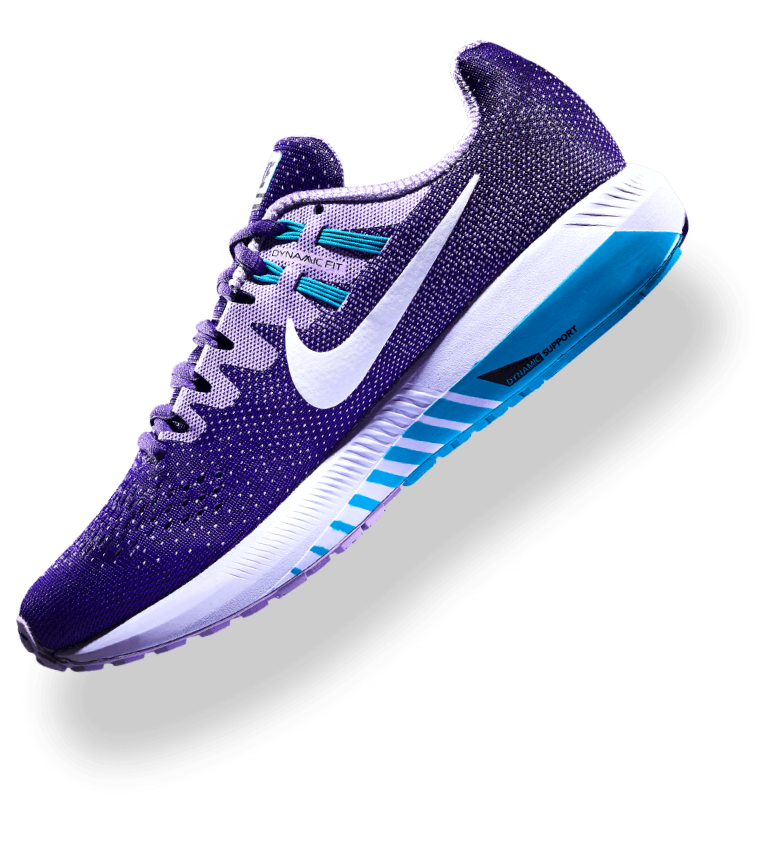
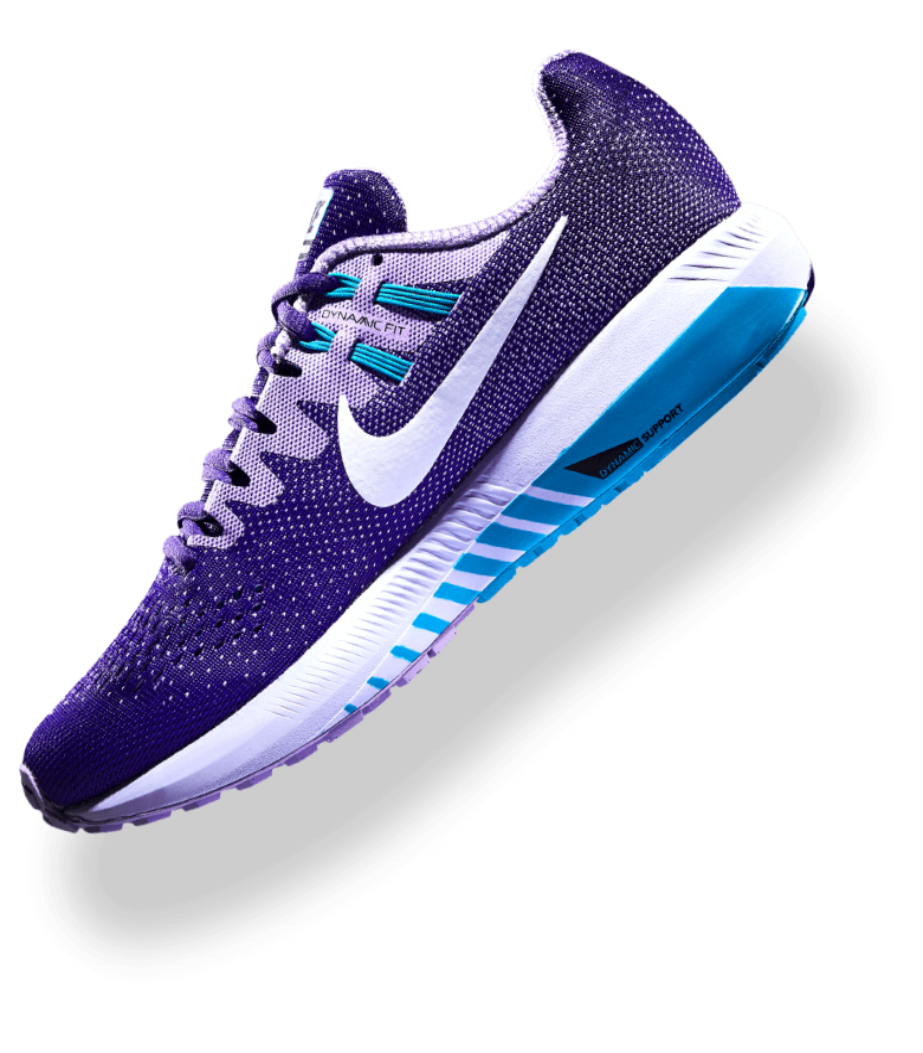
Completed Casual Shoes Section

Changed region(s): [[0.0615, 0.0612, 0.8, 0.6737], [0.4308, 0.4594, 0.4615, 0.49]]

diff --git a/index.html b/index.html
@@ -74,20 +74,6 @@
               align-items-center
             "
           >
-            <svg
-              xmlns="http://www.w3.org/2000/svg"
-              class="h-6 w-6"
-              fill="none"
-              viewBox="0 0 24 24"
-              stroke="currentColor"
-            >
-              <path
-                stroke-linecap="round"
-                stroke-linejoin="round"
-                stroke-width="2"
-                d="M3 3h2l.4 2M7 13h10l4-8H5.4M7 13L5.4 5M7 13l-2.293 2.293c-.63.63-.184 1.707.707 1.707H17m0 0a2 2 0 100 4 2 2 0 000-4zm-8 2a2 2 0 11-4 0 2 2 0 014 0z"
-              />
-            </svg>
             BUY NOW
           </button>
         </div>
@@ -96,7 +82,101 @@
     <!-- Header Ends -->
     <main>
       <!-- Casual Shoes Section -->
-      <section></section>
+      <section class="container my-5">
+        <h1 class="mb-5">CASUAL SHOES</h1>
+        <div class="row row-cols-1 row-cols-md-3 g-4">
+          <div class="col">
+            <div class="card h-100 nike-card">
+              <img src="images/image 5.png" class="nike-bg-img" alt="..." />
+              <div class="card-body">
+                <h3 class="card-title">Nike Shoe</h3>
+                <p class="card-text">
+                  This is a wider card with supporting text below as a natural
+                  lead-in to additional content. This content is a little bit
+                  longer.
+                </p>
+              </div>
+              <div class="d-flex justify-content-between px-4 pb-2">
+                <h2 class="nike-text-color">$234</h2>
+                <button
+                  class="
+                    btn
+                    nike-button
+                    text-nowrap
+                    rounded
+                    text-white
+                    d-flex
+                    align-items-center
+                  "
+                >
+                  BUY NOW
+                </button>
+              </div>
+            </div>
+          </div>
+          <div class="col">
+            <div class="card h-100 nike-card">
+              <img
+                src="images/Daco_1703273 1.png"
+                class="nike-bg-img"
+                alt="..."
+              />
+              <div class="card-body">
+                <h3 class="card-title">Sneakers Skate Shoe</h3>
+                <p class="card-text">
+                  This card has supporting text below as a natural lead-in to
+                  additional content.
+                </p>
+              </div>
+              <div class="d-flex justify-content-between px-4 pb-2">
+                <h2 class="nike-text-color">$234</h2>
+                <button
+                  class="
+                    btn
+                    nike-button
+                    text-nowrap
+                    rounded
+                    text-white
+                    d-flex
+                    align-items-center
+                  "
+                >
+                  BUY NOW
+                </button>
+              </div>
+            </div>
+          </div>
+          <div class="col">
+            <div class="card h-100 nike-card">
+              <img src="images/pngegg 1.png" class="nike-bg-img" alt="..." />
+              <div class="card-body">
+                <h3 class="card-title">Sneakers Basketball Shoe</h3>
+                <p class="card-text">
+                  This is a wider card with supporting text below as a natural
+                  lead-in to additional content. This card has even longer
+                  content than the first to show that equal height action.
+                </p>
+              </div>
+              <div class="d-flex justify-content-between px-4 pb-2">
+                <h2 class="nike-text-color">$234</h2>
+                <button
+                  class="
+                    btn
+                    nike-button
+                    text-nowrap
+                    rounded
+                    text-white
+                    d-flex
+                    align-items-center
+                  "
+                >
+                  BUY NOW
+                </button>
+              </div>
+            </div>
+          </div>
+        </div>
+      </section>
     </main>
     <!-- Bootstrap Script -->
     <script

diff --git a/styles/style.css b/styles/style.css
@@ -7,5 +7,18 @@
 }
 
 .nike-button {
+  border-radius: 10px;
   background: linear-gradient(180deg, #3d4ff3 0%, #3543bc 100%);
+}
+
+.nike-bg-img {
+  border-radius: 30px;
+  margin: 1.5rem;
+  background-color: #f1f1f1;
+}
+
+.nike-card {
+  border: none;
+  box-shadow: 0px 10px 30px 0px rgba(0, 0, 0, 0.05);
+  border-radius: 30px;
 }
